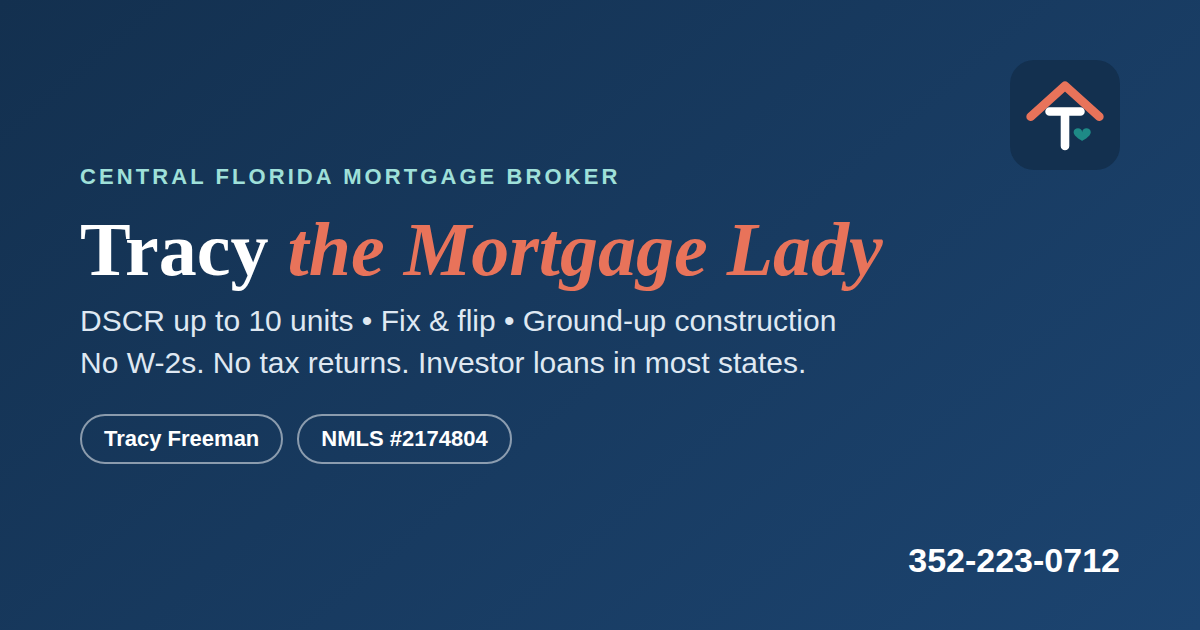
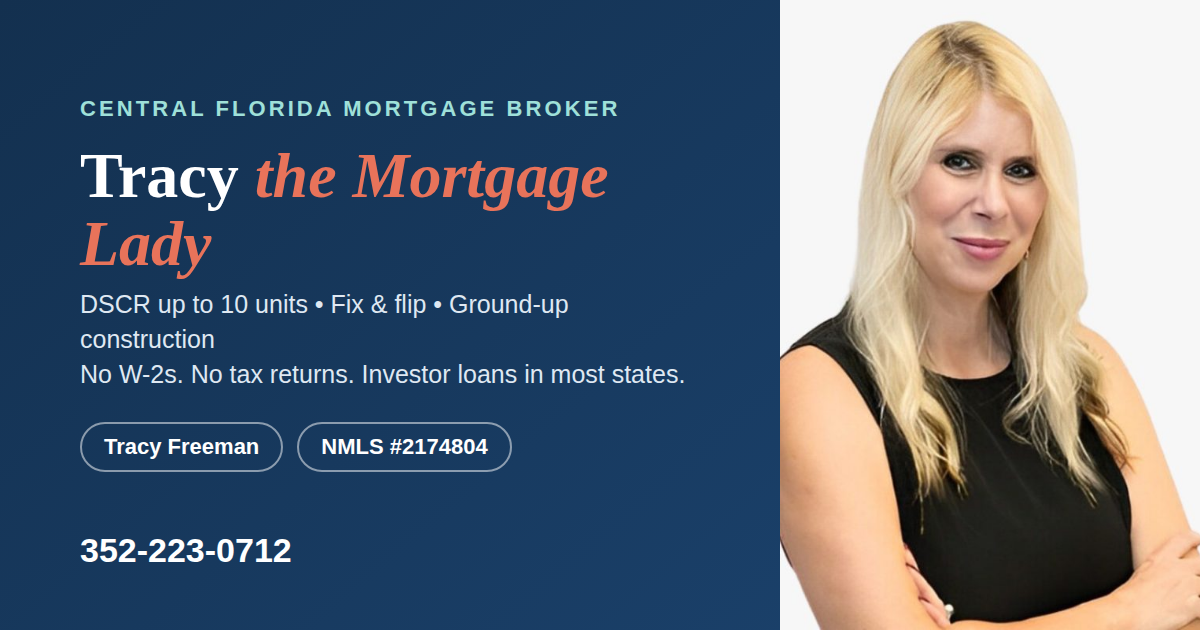
Add Tracy's headshot to hero, schema and social share image
Claude-Session: https://claude.ai/code/session_01LdQirDqNdNXn59E52Tq2ao

diff --git a/index.html b/index.html
@@ -70,6 +70,7 @@
       "description": "Central Florida mortgage broker, real estate investor and former nurse helping investors and home buyers get to the closing table.",
       "url": "https://tracymortgagelady.com/",
       "telephone": "+1-352-223-0712",
+      "image": "https://tracymortgagelady.com/assets/tracy-freeman.jpg",
       "identifier": {
         "@type": "PropertyValue",
         "propertyID": "NMLS",
@@ -385,8 +386,10 @@
         </div>
         <div class="hero-card">
           <div class="portrait">
-            <!-- Replace this span with: <img src="assets/tracy.jpg" alt="Tracy Freeman, Central Florida mortgage broker" width="600" height="630"> -->
-            <span>Tracy's photo</span>
+            <picture>
+              <source srcset="assets/tracy-freeman.webp" type="image/webp">
+              <img src="assets/tracy-freeman.jpg" alt="Tracy Freeman, Central Florida mortgage broker and real estate investor" width="760" height="800" fetchpriority="high">
+            </picture>
           </div>
           <div class="facts">
             <div><strong>Investor</strong><span>I buy, rehab &amp; hold too</span></div>

diff --git a/styles.css b/styles.css
@@ -64,7 +64,9 @@ p { margin: 0 0 1em; }
 .hero-badges li { background: #fff; border: 1px solid var(--line); padding: 6px 14px; border-radius: 999px; font-size: .88rem; font-weight: 500; color: var(--navy); }
 .hero-card { background: #fff; border-radius: 22px; box-shadow: var(--shadow); padding: 18px; }
 .portrait { aspect-ratio: 4 / 4.2; border-radius: 16px; background: linear-gradient(150deg, var(--navy), var(--teal)); display: grid; place-items: center; color: rgba(255,255,255,.75); font-family: var(--serif); font-size: 1.2rem; overflow: hidden; }
-.portrait img { width: 100%; height: 100%; object-fit: cover; }
+.portrait:has(img) { background: #f7f7f7; }
+.portrait picture { display: contents; }
+.portrait img { width: 100%; height: 100%; object-fit: cover; object-position: center top; }
 .facts { display: grid; grid-template-columns: repeat(3, 1fr); gap: 8px; margin-top: 16px; }
 .facts div { text-align: center; padding: 8px 4px; }
 .facts strong { display: block; color: var(--navy); font-family: var(--serif); }

diff --git a/src/pages/index.html b/src/pages/index.html
@@ -26,8 +26,10 @@
         </div>
         <div class="hero-card">
           <div class="portrait">
-            <!-- Replace this span with: <img src="assets/tracy.jpg" alt="Tracy Freeman, Central Florida mortgage broker" width="600" height="630"> -->
-            <span>Tracy's photo</span>
+            <picture>
+              <source srcset="assets/tracy-freeman.webp" type="image/webp">
+              <img src="assets/tracy-freeman.jpg" alt="Tracy Freeman, Central Florida mortgage broker and real estate investor" width="760" height="800" fetchpriority="high">
+            </picture>
           </div>
           <div class="facts">
             <div><strong>Investor</strong><span>I buy, rehab &amp; hold too</span></div>

diff --git a/bank-statement-loans/index.html b/bank-statement-loans/index.html
@@ -70,6 +70,7 @@
       "description": "Central Florida mortgage broker, real estate investor and former nurse helping investors and home buyers get to the closing table.",
       "url": "https://tracymortgagelady.com/",
       "telephone": "+1-352-223-0712",
+      "image": "https://tracymortgagelady.com/assets/tracy-freeman.jpg",
       "identifier": {
         "@type": "PropertyValue",
         "propertyID": "NMLS",

diff --git a/dscr-loans/index.html b/dscr-loans/index.html
@@ -70,6 +70,7 @@
       "description": "Central Florida mortgage broker, real estate investor and former nurse helping investors and home buyers get to the closing table.",
       "url": "https://tracymortgagelady.com/",
       "telephone": "+1-352-223-0712",
+      "image": "https://tracymortgagelady.com/assets/tracy-freeman.jpg",
       "identifier": {
         "@type": "PropertyValue",
         "propertyID": "NMLS",

diff --git a/fix-and-flip-loans/index.html b/fix-and-flip-loans/index.html
@@ -70,6 +70,7 @@
       "description": "Central Florida mortgage broker, real estate investor and former nurse helping investors and home buyers get to the closing table.",
       "url": "https://tracymortgagelady.com/",
       "telephone": "+1-352-223-0712",
+      "image": "https://tracymortgagelady.com/assets/tracy-freeman.jpg",
       "identifier": {
         "@type": "PropertyValue",
         "propertyID": "NMLS",

diff --git a/ground-up-construction-loans/index.html b/ground-up-construction-loans/index.html
@@ -70,6 +70,7 @@
       "description": "Central Florida mortgage broker, real estate investor and former nurse helping investors and home buyers get to the closing table.",
       "url": "https://tracymortgagelady.com/",
       "telephone": "+1-352-223-0712",
+      "image": "https://tracymortgagelady.com/assets/tracy-freeman.jpg",
       "identifier": {
         "@type": "PropertyValue",
         "propertyID": "NMLS",

diff --git a/build.py b/build.py
@@ -61,6 +61,7 @@ def base_graph():
             "description": "Central Florida mortgage broker, real estate investor and former nurse helping investors and home buyers get to the closing table.",
             "url": SITE,
             "telephone": PHONE,
+            "image": SITE + "assets/tracy-freeman.jpg",
             "identifier": {"@type": "PropertyValue", "propertyID": "NMLS", "value": "2174804"},
             "worksFor": {"@id": SITE + "#mpire"},
             "knowsAbout": ["DSCR loans", "Fix and flip loans", "Ground-up construction loans",

diff --git a/README.md b/README.md
@@ -39,7 +39,7 @@ Validate after launch with Google's Rich Results Test and https://validator.sche
 
 ## To do before launch
 
-- **Photo:** add `assets/tracy.jpg` and swap it into the hero (see the comment in `src/pages/index.html`).
+- **Photo:** `assets/tracy-freeman.jpg` (+ `.webp`). To replace it, keep the same file names and a roughly 760×800 crop.
 - **Contact form:** create a free form at https://formspree.io and replace `YOUR_FORM_ID` in `src/pages/index.html`. Until then, the form opens a text message to Tracy's phone.
 - **Google Business Profile:** create or claim one. It's the biggest local SEO factor. Once you have profile links (Google, Facebook, LinkedIn, Instagram), add them as `sameAs` in `build.py`.
 - **Compliance review:** have Mpire review the disclosures and program descriptions.
